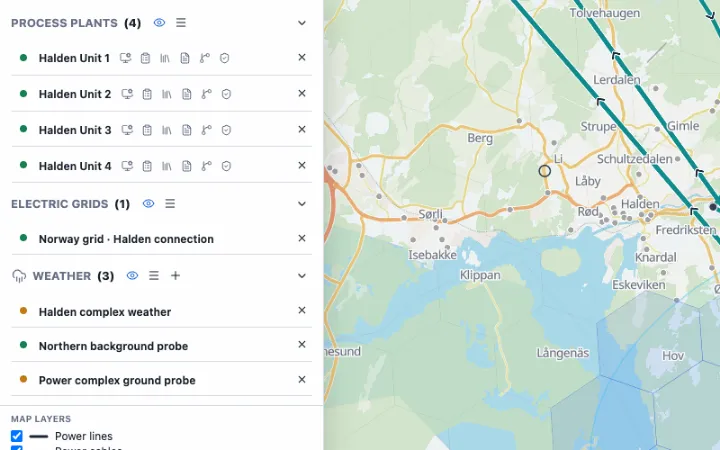
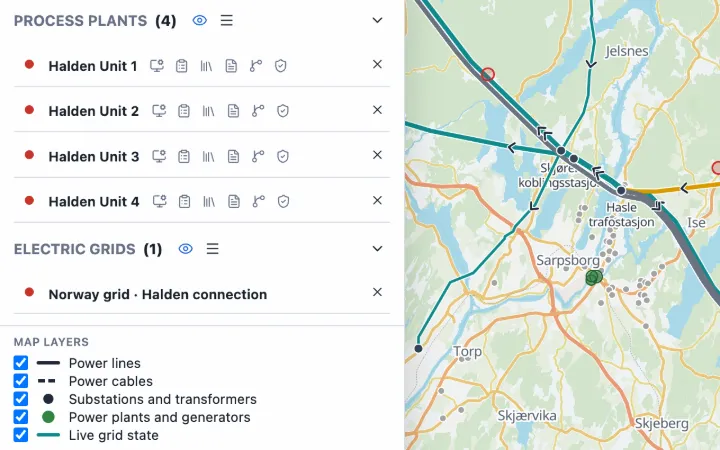
Illustrate the Getting started guide with the final screenshots from production, including a legible part of the component graph, and describe each picture as it now appears

diff --git a/apps/leitbild/src/ui/guide-content.ts b/apps/leitbild/src/ui/guide-content.ts
@@ -100,7 +100,7 @@ export const GUIDE_PAGES: ReadonlyArray<GuidePage> = [
         id: 'what', title: 'What Leitbild is',
         body: 'Leitbild is a sandbox in your browser for simulated microworlds (a nuclear power plant, a model of Norway’s power grid, emergency dispatch) where people and AI agents work side by side. Simulations run without AI, and the AI can answer questions without a simulation.',
         why: 'Set up a situation, speed it up, copy it, and see how people and AI reason about it.',
-        media: { kind: 'shot', shot: 'guide-what', alt: 'The Halden power complex on the map of Norway, its plants listed in the side rail and the grid panel on the right.' },
+        media: { kind: 'shot', shot: 'guide-what', alt: 'Norway’s transmission grid from the south coast to the far north, beside the grid panel’s overview of generation, load and alarms.' },
         action: { kind: 'demo', label: 'Try a demo', demo: null },
         wiki: [wiki('index.md', 'Leitbild'), wiki('concepts.md', 'Leitbild concepts')],
       },
@@ -136,7 +136,7 @@ export const GUIDE_PAGES: ReadonlyArray<GuidePage> = [
         id: 'maps', title: 'One map for every world',
         body: 'Every simulation is shown on the same map of Norway, with its assets, live overlays such as grid loading, and reference layers. Leitbild builds and hosts this base map itself from OpenStreetMap and other open data.',
         why: 'Plant, grid and dispatch share one geographic picture, and a new Pack gets the same map.',
-        media: { kind: 'shot', shot: 'guide-maps', alt: 'The Oslofjord on the map, with transmission lines coloured by their live loading and the grid panel beside them.' },
+        media: { kind: 'shot', shot: 'guide-maps', alt: 'The Oslofjord on the map, with transmission lines coloured by their live loading over the base map.' },
         wiki: [wiki('world/maps.md', 'Maps'), wiki('world/packs/electric-grid/map-overlay.md', 'Grid map overlay')],
       },
       {
@@ -144,7 +144,7 @@ export const GUIDE_PAGES: ReadonlyArray<GuidePage> = [
         body: 'A simulation model of Norway’s transmission grid (132 kV and above), compiled from open data, with links to neighbouring countries and the rest of the Nordic grid in simplified form. It computes flows, frequency and protection trips as it runs; in the Halden scenarios it is connected to four simulated nuclear units.',
         why: 'Trip a line or a power station and watch frequency respond, or find which single outage the grid cannot survive (N-1).',
         limits: 'Demand and generation come from measured reference hours, not from today’s grid.',
-        media: { kind: 'shot', shot: 'guide-grid', alt: 'The grid panel after a generator trip: the grid frequency below its setpoint and a list of new alarms.' },
+        media: { kind: 'shot', shot: 'guide-grid', alt: 'The grid panel after a generator trip: the frequency below its setpoint, the alarms and the most loaded corridors, beside the map.' },
         action: { kind: 'demo', label: 'Try the northern grid demo', demo: 'world:nordland-corridor-security' },
         wiki: [wiki('world/packs/electric-grid/index.md', 'Electric grid'), wiki('world/packs/electric-grid/model-and-data.md', 'Model and data')],
       },
@@ -153,7 +153,7 @@ export const GUIDE_PAGES: ReadonlyArray<GuidePage> = [
         body: 'Einsatz (German for a call-out) is Leitbild’s dispatch and command engine. Ambulances, patrol cars, fire engines, trucks or tanks: every unit type, call and role comes from the scenario, not from code. Tap a call, then its suggested unit; teams split roles across screens, and each side sees only what its own units detect.',
         why: 'One engine for emergency-service, logistics and military exercises, built for teams.',
         limits: 'The exercises are fictional, and the Assistant is not available in exercises with roles.',
-        media: { kind: 'shot', shot: 'guide-einsatz', alt: 'The dispatch board over Halden: waiting calls ranked by priority, and units driving their routes on the map.' },
+        media: { kind: 'shot', shot: 'guide-einsatz', alt: 'The dispatch board over Halden: open calls ranked by priority, units on their routes, and a queued “Add to end” for a busy patrol car.' },
         action: { kind: 'demo', label: 'Try the dispatch demo', demo: 'world:halden-emergency' },
         wiki: [wiki('world/packs/einsatz/index.md', 'Einsatz'), wiki('world/roles-and-sides.md', 'Roles and sides')],
       },
@@ -162,7 +162,7 @@ export const GUIDE_PAGES: ReadonlyArray<GuidePage> = [
         body: 'Each simulation has its own clock: pause it, run it at maximum pace, or fast-forward by a set number of minutes. Copy a running simulation and the copy starts paused at the same moment, with its own clock and history. Try something different in it and compare.',
         why: 'Skip the slow parts and compare “what if we had done X” side by side.',
         limits: 'How much faster depends on the model; live data feeds cannot be fast-forwarded.',
-        media: { kind: 'shot', shot: 'guide-time', alt: 'The fast-forward dialog over the map: one-tap buttons for one, two or five simulated minutes.' },
+        media: { kind: 'shot', shot: 'guide-time', alt: 'The fast-forward dialog: one-tap buttons for one, two or five simulated minutes, or a typed number of minutes.' },
         action: { kind: 'demo', label: 'Try the northern grid demo', demo: 'world:nordland-corridor-security' },
         wiki: [wiki('world/time-and-copies.md', 'Time and copies')],
       },
@@ -178,7 +178,7 @@ export const GUIDE_PAGES: ReadonlyArray<GuidePage> = [
         body: 'A simulated pressurised-water reactor (PWR) with four coolant loops, modelled component by component: pumps, valves, steam generators, turbine and electrical supply. The Halden scenarios place four fictional units on the map, connected to the grid. Emergency procedures open beside the plant and keep your place as you work.',
         why: 'Watch and operate a whole plant through a turbine trip, a loss of offsite power or a tube leak, alone or with AI.',
         limits: 'A detailed reference model, not a qualified model of a real plant.',
-        media: { kind: 'shot', shot: 'guide-pwr', alt: 'A generated overview of one unit: four coolant loops with their pumps and steam generators, the turbine and the reactor.' },
+        media: { kind: 'shot', shot: 'guide-pwr', alt: 'One loop of the generated overview: pressuriser, steam generator A, its coolant pump, the main steam valve and the feedwater pumps.' },
         action: { kind: 'demo', label: 'Try the Halden demo', demo: 'world:halden-offsite-power-restoration' },
         wiki: [wiki('world/packs/process-plant/index.md', 'Process Plant'), wiki('archive/pwr-reference-model/index.md', 'PWR reference model')],
       },
@@ -186,7 +186,7 @@ export const GUIDE_PAGES: ReadonlyArray<GuidePage> = [
         id: 'graphs', title: 'Plant component graphs',
         body: 'Each plant is a graph of components and their connections, more than a hundred in the four-loop model. From any plant you can open the full component graph, the authored specification and links to the code behind each component. Displays and AI answers trace back to this model.',
         why: 'Nothing is a black box: you can check where a displayed value comes from.',
-        media: { kind: 'shot', shot: 'guide-graphs', alt: 'Part of a unit’s component graph: boxes for pumps, valves and steam generators joined by their connections.' },
+        media: { kind: 'shot', shot: 'guide-graphs', alt: 'Part of a unit’s component graph: vital batteries feeding inverters and plant-control loads, each link labelled with the service it carries.' },
         wiki: [wiki('world/packs/process-plant/inspection.md', 'Displays and source inspection')],
       },
       {
@@ -194,7 +194,7 @@ export const GUIDE_PAGES: ReadonlyArray<GuidePage> = [
         body: 'Plant screens are not drawn by hand: Leitbild generates an overview for every unit from its model. When you ask the AI about the plant, it can compose a display for that question (trends against alarm limits, the relevant flow path), fed live by the simulation, and states the question it answers.',
         why: 'One visual language adapts to any plant or situation, and you see the evidence the AI points at.',
         limits: 'Every display is marked “not an operating display”.',
-        media: { kind: 'shot', shot: 'guide-displays', alt: 'A display the AI composed for a tube-leak question: secondary radiation and leak rate trending against their alarm limits.' },
+        media: { kind: 'shot', shot: 'guide-displays', alt: 'A display the AI composed for a tube-leak question: secondary radiation and leak rate trending past their alarm limits, and related alarms.' },
         wiki: [wiki('world/packs/process-plant/displays/live-operator-displays.md', 'Live operator displays')],
       },
     ],
@@ -208,7 +208,7 @@ export const GUIDE_PAGES: ReadonlyArray<GuidePage> = [
         id: 'assistant', title: 'The Leitbild Assistant',
         body: 'A built-in AI assistant you can ask about Leitbild, about a running simulation, or for help building a scenario. It looks things up in the wiki and the product’s source code, and explores the simulation through the same operations people use. Answers cite their sources.',
         limits: 'It does not browse the web, and an answer can take up to two minutes.',
-        media: { kind: 'shot', shot: 'guide-assistant', alt: 'An Assistant answer in a conversation, with links to the wiki pages and source files it used.' },
+        media: { kind: 'shot', shot: 'guide-assistant', alt: 'An Assistant answer in a conversation: a ten-minute plan with links to the demos and wiki pages it used.' },
         action: { kind: 'page', label: 'Ask a question', page: 'ask' },
         wiki: [wiki('agents/index.md', 'Agents')],
       },
@@ -216,7 +216,7 @@ export const GUIDE_PAGES: ReadonlyArray<GuidePage> = [
         id: 'agents', title: 'AI agents you configure',
         body: 'For each agent you choose the model, persona, tools and skills; for each conversation, which Packs it uses and how much of the Workspace it may see. For each simulation you can block specific operations, and you can re-run a finished answer on another model to compare.',
         why: 'Control what an agent can see and do, and compare models on the same question.',
-        media: { kind: 'shot', shot: 'guide-agents', alt: 'An agent’s answer about core cooling after a pump trip, with the model it used and a live display it composed.' },
+        media: { kind: 'shot', shot: 'guide-agents', alt: 'The Leitbild Assistant’s settings: its model, its persona, and which prompts, context, tools and skills go into each call, with token costs.' },
         wiki: [wiki('agents/index.md', 'Agents'), wiki('agents/model-comparisons.md', 'Comparing models on a task')],
       },
       {
@@ -230,7 +230,7 @@ export const GUIDE_PAGES: ReadonlyArray<GuidePage> = [
         id: 'proposals', title: 'AI proposes, a person approves',
         body: 'On the plant, an AI agent does not operate equipment itself. It proposes an operation; the proposal appears on the equipment and in the chat, and nothing happens until a person approves or rejects it. Elsewhere, such as on the grid, you can block what an agent may do in each simulation.',
         why: 'A person stays accountable for every plant operation, which research on human–AI teamwork needs.',
-        media: { kind: 'shot', shot: 'guide-proposals', alt: 'A proposal from an AI agent on a steam valve, waiting for a person to approve or reject it.' },
+        media: { kind: 'shot', shot: 'guide-proposals', alt: 'A proposal from an AI agent to shut a steam valve, waiting for a person to approve or reject it.' },
         wiki: [wiki('world/packs/process-plant/displays/operating-equipment.md', 'Operating plant equipment')],
       },
     ],
@@ -257,7 +257,7 @@ export const GUIDE_PAGES: ReadonlyArray<GuidePage> = [
         id: 'packs', title: 'Packs and scenarios',
         body: 'Leitbild is modular. Each domain (process plant, electric grid, Einsatz dispatch, weather) is a Pack that adds its own equipment, models and operations. A scenario combines Packs into a situation with a starting state and a timeline; build your own in the scenario editor, or ask the Assistant to draft one.',
         why: 'New domains plug in without rebuilding the platform, and the AI discovers them as it works.',
-        media: { kind: 'shot', shot: 'guide-packs', alt: 'The side rail of a running simulation, grouping its process plants, electric grid and weather areas by Pack.' },
+        media: { kind: 'shot', shot: 'guide-packs', alt: 'The side rail of a running simulation: its process plants and electric grid listed by Pack, with the map layers, beside the map.' },
         wiki: [wiki('world/packs/index.md', 'World packs'), wiki('world/scenarios.md', 'Composing scenarios')],
       },
       {

diff --git a/apps/leitbild/src/ui/guide-images.ts b/apps/leitbild/src/ui/guide-images.ts
@@ -1,7 +1,7 @@
-// Vite-processed (hashed) URLs for the guide's images. The files are interim
-// prototype captures under their final names (plan v2 §9); a recapture replaces
-// the file and keeps the name. Imported only by GuideModal.svelte, so the images
-// load with the guide's chunk and never with the landing page.
+// Vite-processed (hashed) URLs for the guide's images. The files are production
+// captures under their plan v2 §9 names; a recapture replaces the file and keeps
+// the name. Imported only by GuideModal.svelte, so the images load with the
+// guide's chunk and never with the landing page.
 
 import type { GuideDiagramId, GuideShotId } from './guide-content.ts'
 import guideWhat720 from './assets/guide/guide-what-720.webp'
